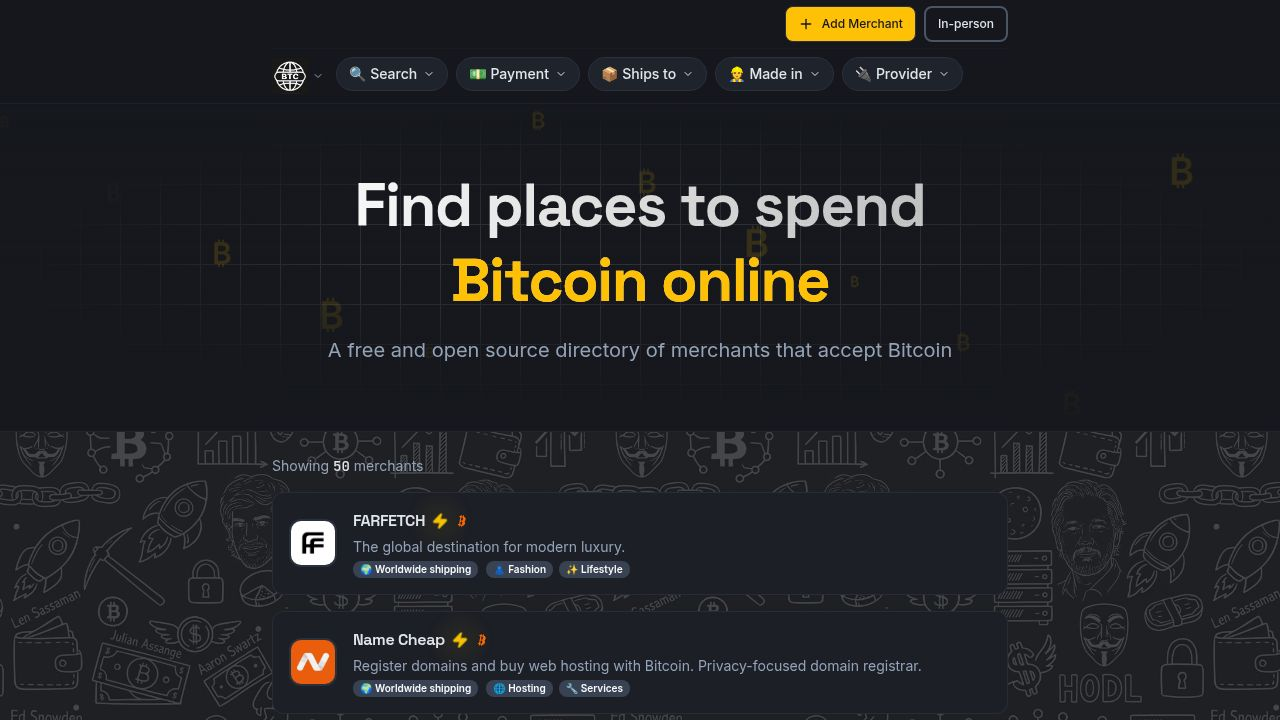
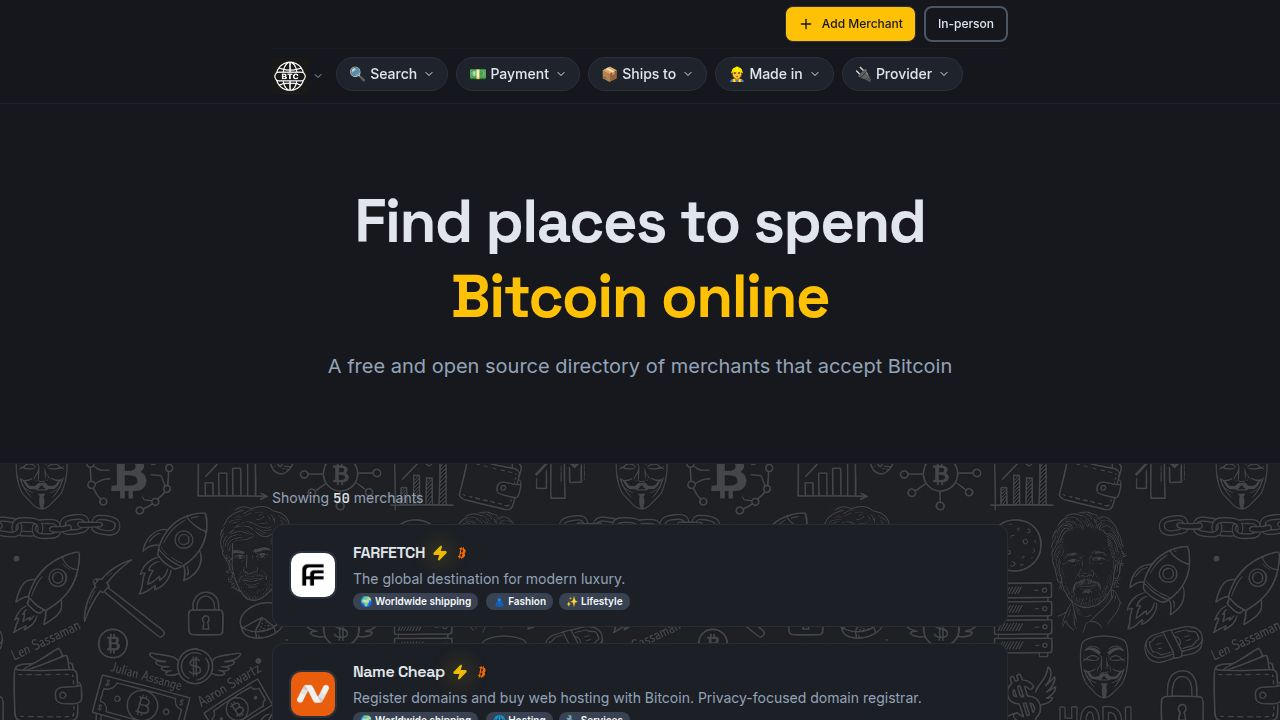
Display merchant categories like other filter information
Update the merchant card component to display categories with a label and value, similar to other filter fields, and remove the old badge display.

Replit-Commit-Author: Agent
Replit-Commit-Session-Id: 03c64848-d5e5-414e-8a04-318abee6e893
Replit-Commit-Checkpoint-Type: full_checkpoint
Replit-Commit-Event-Id: 880d2bf0-aefd-4ebe-9c0e-9a3fd16627ec
Replit-Commit-Screenshot-Url: https://storage.googleapis.com/screenshot-production-us-central1/836d56c9-18a9-46ad-9972-6a9fa87541a8/03c64848-d5e5-414e-8a04-318abee6e893/Wc6uuVQ
Replit-Helium-Checkpoint-Created: true

diff --git a/client/src/components/merchant-card.tsx b/client/src/components/merchant-card.tsx
@@ -132,15 +132,14 @@ export default function MerchantCard({ merchant }: MerchantCardProps) {
         <div className="border-t border-border/30 px-3 md:px-4 py-4 space-y-4" onClick={(e) => e.stopPropagation()}>
           <p className="text-sm text-muted-foreground">{merchant.description}</p>
 
-          <div className="flex flex-wrap gap-2">
-            {merchant.categories.map((cat) => (
-              <Badge key={cat} variant="secondary" className="text-xs py-0.5 px-2">
-                {getCategoryEmoji(cat)}
-              </Badge>
-            ))}
-          </div>
-
           <div className="grid grid-cols-2 md:grid-cols-4 gap-4 text-xs">
+            {merchant.categories.length > 0 && (
+              <div className="space-y-1">
+                <span className="text-muted-foreground/70 uppercase tracking-wider text-[10px] font-semibold">Category</span>
+                <p className="text-foreground">{merchant.categories.map(cat => getCategoryEmoji(cat)).join(", ")}</p>
+              </div>
+            )}
+
             <div className="space-y-1">
               <span className="text-muted-foreground/70 uppercase tracking-wider text-[10px] font-semibold">Payment</span>
               <div className="flex items-center gap-2 text-foreground">
